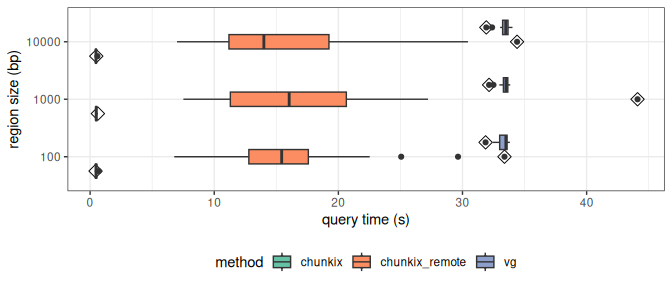
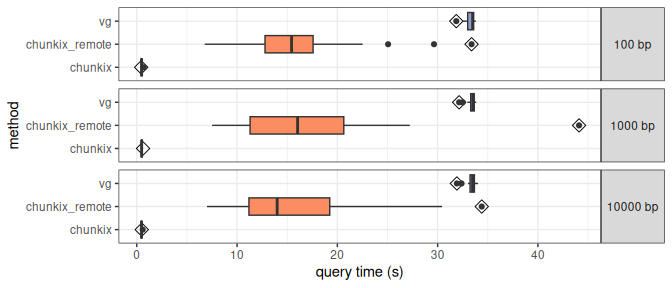
add figure for pg chunking

Changed region(s): [[0.0, 0.0, 1.0, 0.9688], [0.25, 0.0312, 0.7812, 0.1875], [0.0938, 0.0, 0.1562, 0.0312]]

diff --git a/analysis/pgchunking/query.time.test.md b/analysis/pgchunking/query.time.test.md
@@ -34,30 +34,33 @@ df = lapply(reg_size, function(rs){
 sample_n(df, 3) %>% select(size, method, region, s)
 ```
 
-    ##    size         method                            region        s
-    ## 1   100             vg  GRCh38#0#chr18:30339677-30339777 33.59794
-    ## 2 10000 chunkix_remote  GRCh38#0#chr17:13249195-13259195 12.04265
-    ## 3 10000 chunkix_remote GRCh38#0#chr7:150869665-150879665 20.14897
+    ##    size         method                           region         s
+    ## 1 10000 chunkix_remote  GRCh38#0#chrY:29396765-29406765  7.003057
+    ## 2   100             vg GRCh38#0#chr18:79276077-79276177 33.524945
+    ## 3  1000 chunkix_remote    GRCh38#0#chrX:9217121-9218121  9.896849
 
 Annotate the query number to check if the first query takes longer for
 remote files (because of the time it takes to download the tbi files).
 
 ``` r
 df = df %>% group_by(size) %>%
-  mutate(query.nb=as.numeric(factor(region, levels=unique(region))))
+  mutate(query.nb=as.numeric(factor(region, levels=unique(region))),
+         size.label=paste(size, 'bp'))
 ```
 
 ## Query time distribution
 
 ``` r
-ggplot(df, aes(x=factor(size), y=s, fill=method)) +
+ggplot(df, aes(x=method, y=s, fill=method)) +
   geom_point(data=subset(df, query.nb==1), size=3, alpha=1,
              position=position_dodge(.75), shape=5) + 
   geom_boxplot(position='dodge') + theme_bw() +
-  xlab('region size (bp)') + coord_flip() +
+  coord_flip() +
   scale_fill_brewer(palette='Set2') +
-  theme(legend.position='bottom') + 
-  ylab('query time (s)')
+  guides(fill='none') + 
+  facet_grid(size.label~.) + 
+  ylab('query time (s)') +
+  theme(strip.text.y=element_text(angle=0))
 ```
 
 ![](query.time.test_files/figure-gfm/query_time-1.png)<!-- -->
@@ -98,3 +101,58 @@ df %>% group_by(method, size) %>%
 |   100 | 0.4868282 |       16.24498 | 33.26382 |
 |  1000 | 0.4965837 |       17.37299 | 33.37983 |
 | 10000 | 0.4763262 |       15.90399 | 33.39566 |
+
+## File size comparison
+
+``` r
+size.df = read.table('file.sizes.tsv', as.is=TRUE, sep='\t', header=TRUE)
+
+size.plot.df = size.df %>% mutate(size.gib=size/(1024*1024*1024),
+                                  type=ifelse(grepl('tabix', file), 'tabix', file),
+                                  type=factor(type, rev(unique(type))),
+                                  subfile=ifelse(grepl('tabix', file), gsub('tabix-', '', file), 'NA'))
+
+ggplot(size.plot.df, aes(x=type, y=size.gib)) +
+  geom_col() + 
+  geom_col(aes(fill=subfile), data=subset(size.plot.df, type=='tabix')) + 
+  coord_flip() + theme_bw() +
+  ylab('file size (GiB)') +
+  scale_fill_brewer(palette='Set2', name='tabix files') +
+  theme(axis.title.y=element_blank(),
+        legend.position='inside',
+        legend.position.inside=c(.99, .01),
+        legend.justification.inside=c(1,0))
+```
+
+![](query.time.test_files/figure-gfm/file_size-1.png)<!-- -->
+
+## Figure
+
+``` r
+p1 = ggplot(size.plot.df, aes(x=type, y=size.gib)) +
+  geom_col() + 
+  geom_col(aes(fill=subfile), data=subset(size.plot.df, type=='tabix')) + 
+  coord_flip() + theme_bw() +
+  ylab('file size (GiB)') +
+  scale_fill_brewer(palette='Set2', name='tabix files') +
+  theme(axis.title.y=element_blank(),
+        legend.position='inside',
+        legend.position.inside=c(.99, .01),
+        legend.justification.inside=c(1,0))
+p2 = ggplot(df, aes(x=method, y=s)) +
+  geom_point(data=subset(df, query.nb==1), size=3, alpha=1,
+             position=position_dodge(.75), shape=5) + 
+  geom_boxplot(position='dodge', fill='grey90') + theme_bw() +
+  coord_flip() +
+  guides(fill='none') + 
+  facet_grid(size.label~.) + 
+  ylab('query time (s)') +
+  theme(strip.text.y=element_text(angle=0))
+
+pdf('pgchunking.fig.pdf', 10, 3)
+gridExtra::grid.arrange(p1, p2, nrow=1)
+dev.off()
+```
+
+    ## png 
+    ##   2

diff --git a/content/04.results.md b/content/04.results.md
@@ -121,8 +121,23 @@ By integrating these two external sources of annotations (gene annotation and AT
 
 A new subgraph extraction was implemented using three tabix-indexed files: a GAF file with haplotype information, a BED file associating coordinates on the haplotypes to nodes, and a TSV file associating each node to its sequence. 
 The three index files were produced in about 1h40m starting from the gzipped GFA file of the HPRC Minigraph-Cactus v1.1 pangenome.
-Extracting a subgraph on 50 random regions of 100 bp, 1 Kbp, or 10 Kbp took about 0.5s per query, compared to 33s using `vg chunk`.
-Thanks to their integration in the sequenceTubeMap, it only takes about a second to visualize a region in the sequenceTubeMap when using these new index files, compared to more than 30s before.
-On disk, the three index files totaled 4 GiB: 2.4 GiB for the "haplotype" bgzipped GAF file, 1.1 GiB for the "node sequence" bgzipped TSV file, and 527 MiB for the "haplotype position" bgzipped BED file.
+
+Extracting a subgraph on 20 random regions of 100 bp, 1 Kbp, or 10 Kbp took about 0.5s per query, compared to 33s using `vg chunk` (Figure {@fig:pgchunking}).
+Of note, as other tabix-indexed files, the new pangenome files can be queried remotely through HTTPS/FTP.
+For example, we extracted the same regions using files hosted in a server in the United States, from a computer in France, in 15s on average. 
+In this case, the small TBI files are automatically downloaded locally, if needed, which added about additional 20 second to the first query.
+
+![
+**Subgraph extraction using tabix-indexed files**.
+Benchmark performed on the HPRC Minigraph-Cactus v1.1 human pangenome.
+**Left** Size of the index files. 
+**Right** Time to query 20 random regions of varying sizes (y-axis), using the tabix-indexed files (`chunkix` method) or `vg chunk` from the GBZ file.
+The `chunkix` method also works on remote files, here through HTTPS, and is labelled here as `chunkix_remote`. 
+In that case the small TBI files must be downloaded locally which increase the time for the first query (highlighted with a diamond).
+](images/pgchunking.fig.png "Subgraph extraction"){#fig:pgchunking}
+
+On disk, the three index files totaled 4 GiB: 2.4 GiB for the "haplotype" bgzipped GAF file, 1.1 GiB for the "node sequence" bgzipped TSV file, and 527 MiB for the "haplotype position" bgzipped BED file (Figure {@fig:pgchunking}).
 These index files are 2.75 smaller than input gzipped GFA file (11 GiB) and 30% larger than the GBZ file (3.1 GiB).
-Of note, as other tabix-indexed files, the new pangenome files can be queried remotely through HTTPS/FTP`double-check`{.red}.
+
+Thanks to their integration in the sequenceTubeMap, it only takes about a second to visualize a region in the sequenceTubeMap when using these new index files, compared to more than 30s before.
+

diff --git a/content/03.methods.md b/content/03.methods.md
@@ -157,8 +157,8 @@ Finally, the TSV file is queried by nodes to retrieve their sequences.
 The edges in the subgraph are derived from the haplotype paths.
 A JSON representation of the subgraph and annotations can also be outputted directly, for example when used internally by the sequenceTubeMap.
 
-Subgraph extraction was benchmarked on 10 randomly selected regions.
-Three sets of regions of different length were tested (100 bp, 500 bp, and 1000 bp).
+Subgraph extraction was benchmarked on 20 randomly selected regions.
+Three sets of regions of different length were tested (100 bp, 1000 bp, and 10,000 bp).
 We compared the new tabix-powered extraction with `vg chunk` starting from a GBZ file and using the `--trace` option to trace haplotype threads and a context of 1 node (`-c 1`).
 
 ### Visualization in the Sequence Tube Map

diff --git a/analysis/pgchunking/README.md b/analysis/pgchunking/README.md
@@ -49,9 +49,9 @@ vg paths -E -x hprc-v1.1-mc-grch38.gbz > contig.lengths.txt
 We tested three different region size (`-s` below):
 
 ```sh
-python3 query.time.test.py -r -n 50 -s 100 > benchmark.query.50.100.tsv
-python3 query.time.test.py -r -n 50 -s 1000 > benchmark.query.50.1000.tsv
-python3 query.time.test.py -r -n 50 -s 10000 > benchmark.query.50.10000.tsv
+python3 query.time.test.py -r -n 20 -s 100 > benchmark.query.20.100.tsv
+python3 query.time.test.py -r -n 20 -s 1000 > benchmark.query.20.1000.tsv
+python3 query.time.test.py -r -n 20 -s 10000 > benchmark.query.20.10000.tsv
 ```
 
 A summary of the query time is compiled in [this R-markdown report](query.time.test.md).
